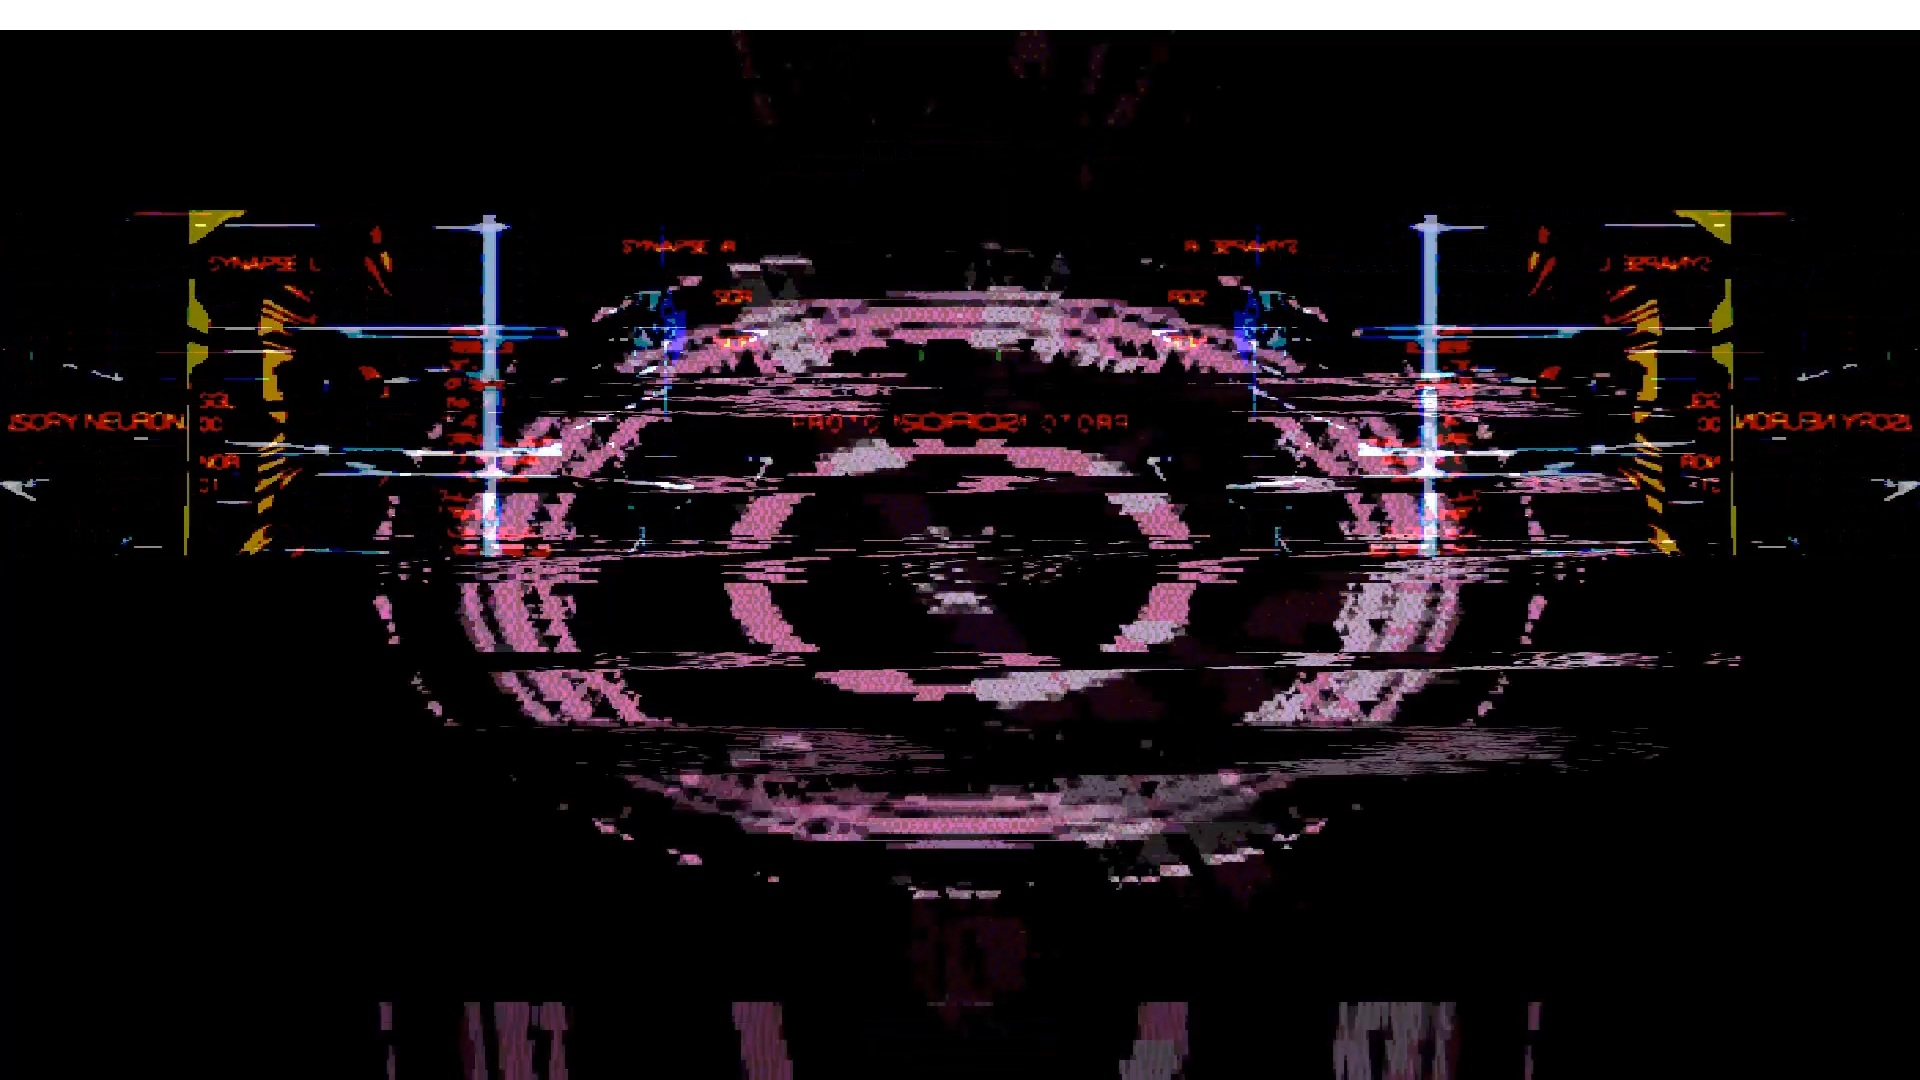
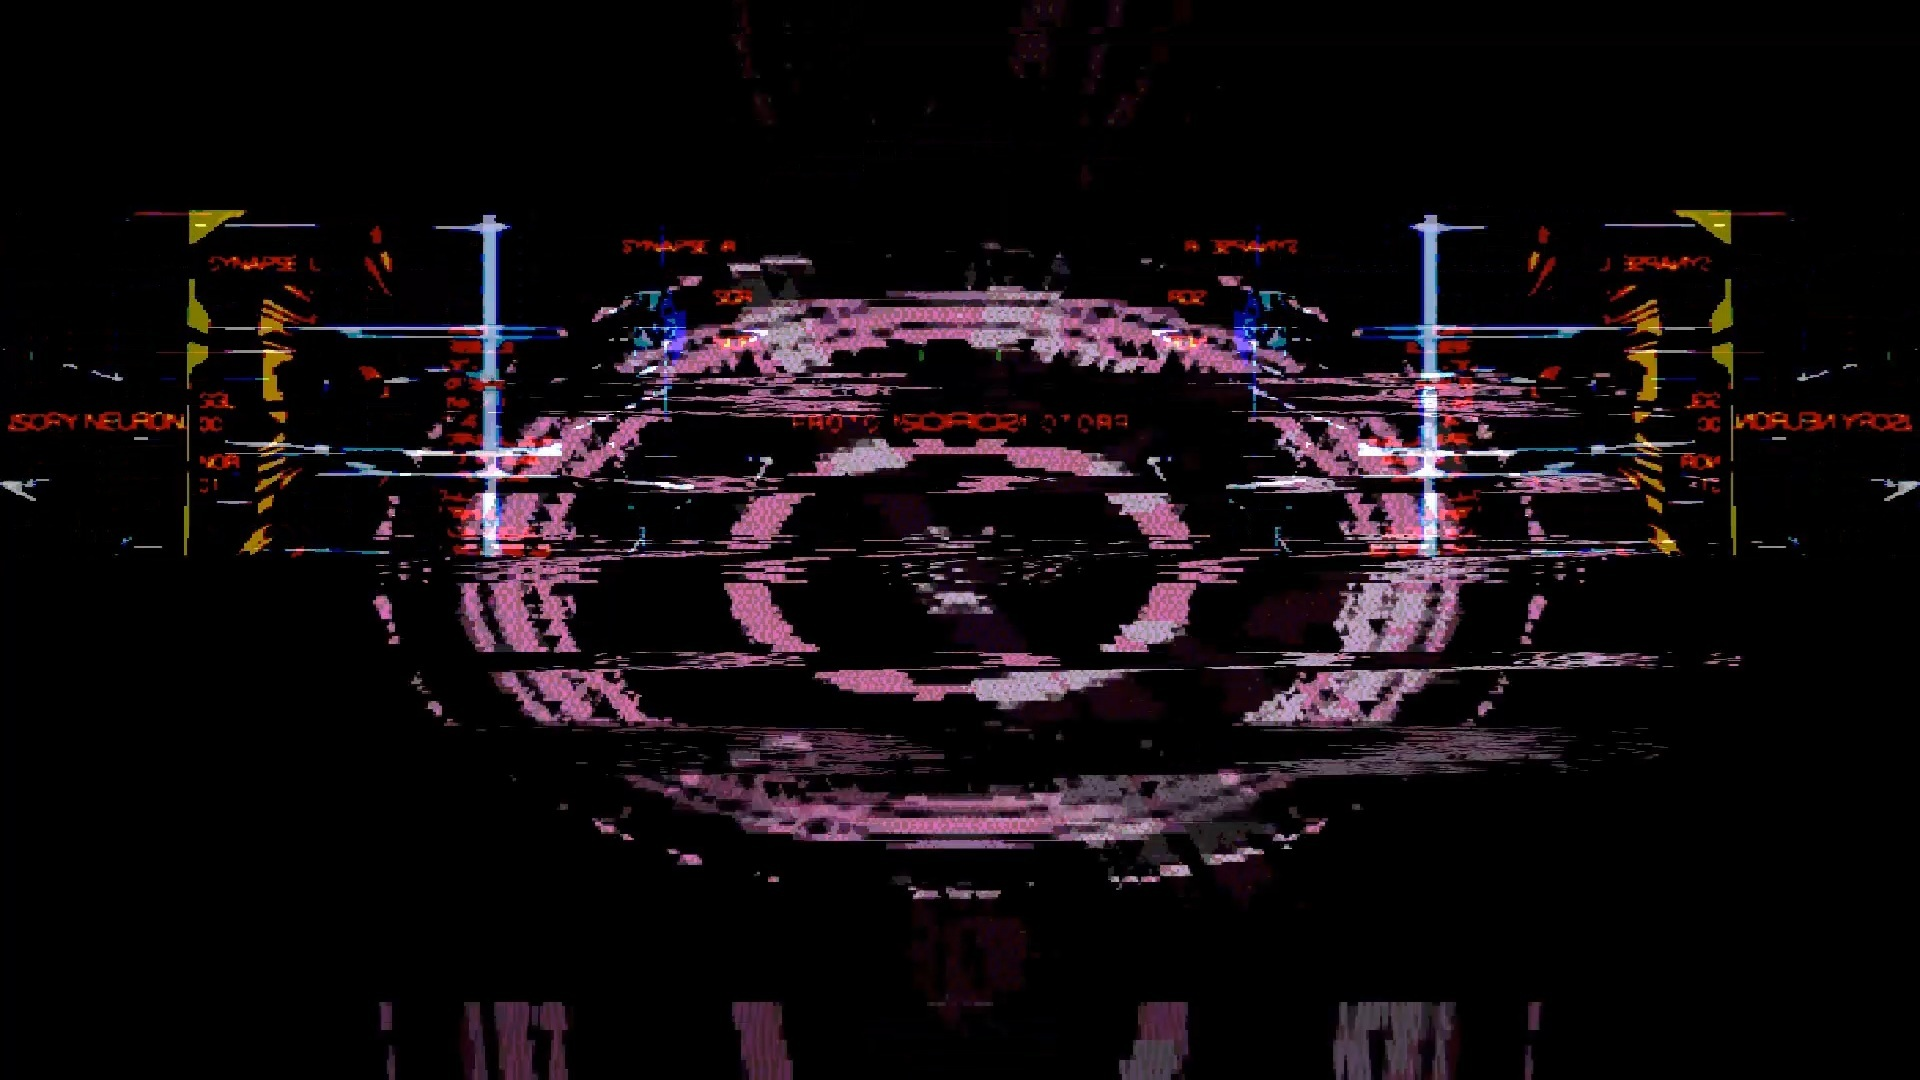
run2

Changed region(s): [[0.0, 0.0, 1.0, 0.0306]]

diff --git a/index.html b/index.html
@@ -100,6 +100,31 @@ audio reactive, Club Kaiku, Twilight Courier, twilightcourier, hardcore VJ, spee
 
             <div class="tile-group">
 
+                        <!-- speedcore1 -->
+                <div class="tile-single">
+                    <a target="_blank" href="https://www.youtube.com/watch?v=6KsjEAWjlM0"><img class="tile-image"
+                            src="VJ_Demo_Photos/run2.jpg"> </a>
+
+                    <div class=tile-text-content>
+                        <div <span class="tile-title"> <a target="_blank"
+                                href="https://www.youtube.com/watch?v=6KsjEAWjlM0">
+                                bass/dubstep1 - running, mix2  </a> </span>
+
+
+                            <div <p class="tile-description">
+                                Elpac - Outside Ride
+                                </p>
+                            </div>
+
+
+                            <div class="tile-links">
+                                <a target="_blank" href=""> </a>
+                            </div>
+
+                        </div>
+                    </div>
+                </div>
+
                   <!-- speedcore1 -->
                 <div class="tile-single">
                     <a target="_blank" href="https://www.youtube.com/watch?v=j6bz2MJnKwU"><img class="tile-image"
